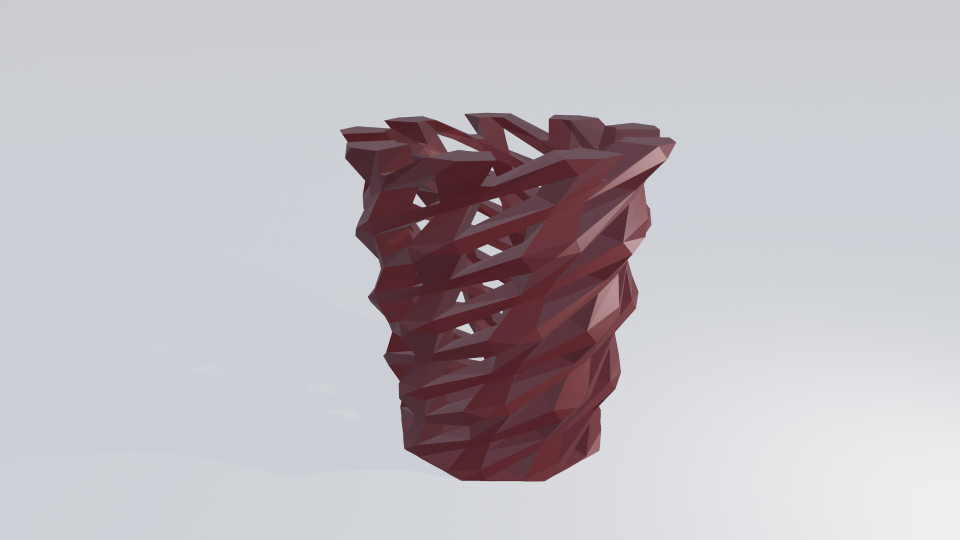
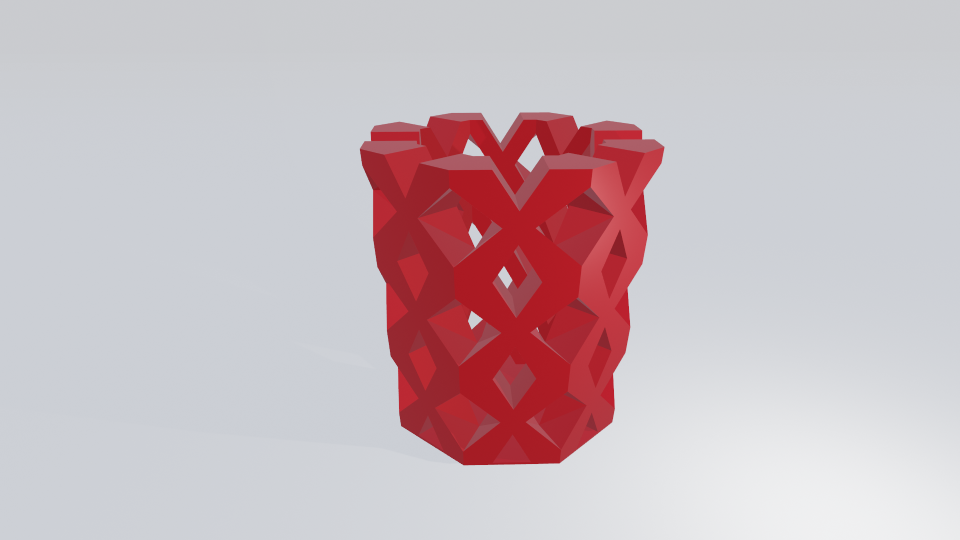
correct description

Changed region(s): [[0.3438, 0.2074, 0.7188, 0.9185]]

diff --git a/configs/vase3.py b/configs/vase3.py
@@ -7,11 +7,11 @@ from src.mesh_utils import snap_transform_to_layers, to_cylindrical_coords, \
 from src.shape_circular import generate_cylindrical_shape
 
 config = CircularShapeConfig()
-config.radius = 38
-config.height = 170
-config.thickness = 11
-config.base_cell_height = 14
-config.base_cell_width = 9
+config.radius = 35
+config.height = 140
+config.thickness = 3
+config.base_cell_height = 28
+config.base_cell_width = 28
 config.frame_len_bottom = 3
 config.bottom = True
 config.cell_fullness_function = lambda angle, h_fraction: 1
@@ -21,15 +21,9 @@ shape = generate_cylindrical_shape(config)
 
 def warp_vase_transform(x, y, z):
     angle, distance, z = to_cylindrical_coords(x, y, z)
-    phase = (7 + math.sin(angle * 3)) / 7
-    scale = 1 + z / config.height * 0.4 + phase / 3
-    new_z = z * phase
-    angle = angle + new_z / config.height * 1.5 + phase / 2
-
-    center_distance_deviation = distance - config.radius
-    scale = scale * pow(abs(center_distance_deviation) / config.thickness * 2, 0.4)
-
-    return from_cylindrical_coords(angle, distance * scale, new_z)
+    scale = 1 + z / config.height * 0.4
+    angle = angle + z / config.height * 3.7
+    return from_cylindrical_coords(angle, distance * scale, z)
 
 
 transform = warp_vase_transform
@@ -37,3 +31,4 @@ transform = snap_transform_to_layers(config, transform)
 shape = apply_transform(shape, transform)
 shape = round_mesh_points(shape, 3)
 save_stl(shape, os.path.splitext(os.path.basename(__file__))[0])
+

diff --git a/configs/vase1.py b/configs/vase1.py
@@ -1,4 +1,3 @@
-import math
 import os
 
 from src.config import CircularShapeConfig
@@ -7,26 +6,23 @@ from src.mesh_utils import snap_transform_to_layers, to_cylindrical_coords, \
 from src.shape_circular import generate_cylindrical_shape
 
 config = CircularShapeConfig()
-config.radius = 60
-config.height = 193
+config.radius = 45
+config.height = 137
 config.thickness = 18
 config.base_cell_height = 50
-config.base_cell_width = 40
-config.frame_len_bottom = 3
+config.base_cell_width = 34
+config.frame_len_bottom = 2
 config.bottom = True
-config.cell_fullness_function = lambda angle, h_fraction: 0.1 if h_fraction == 1 else 0
-
 shape = generate_cylindrical_shape(config)
 
 
-def warp_vase_transform(x, y, z):
+def warp_glass_transform(x, y, z):
     angle, distance, z = to_cylindrical_coords(x, y, z)
-    scale = 1 + z / config.height * 0.4
-    angle = angle + z / config.height * 3.7
+    scale = 1 + z/config.height * 0.2
     return from_cylindrical_coords(angle, distance * scale, z)
 
 
-transform = warp_vase_transform
+transform = warp_glass_transform
 transform = snap_transform_to_layers(config, transform)
 shape = apply_transform(shape, transform)
 shape = round_mesh_points(shape, 3)

diff --git a/configs/vase2.py b/configs/vase2.py
@@ -7,14 +7,14 @@ from src.mesh_utils import snap_transform_to_layers, to_cylindrical_coords, \
 from src.shape_circular import generate_cylindrical_shape
 
 config = CircularShapeConfig()
-config.radius = 35
-config.height = 140
-config.thickness = 3
-config.base_cell_height = 28
-config.base_cell_width = 28
+config.radius = 60
+config.height = 193
+config.thickness = 18
+config.base_cell_height = 50
+config.base_cell_width = 40
 config.frame_len_bottom = 3
 config.bottom = True
-config.cell_fullness_function = lambda angle, h_fraction: 1
+config.cell_fullness_function = lambda angle, h_fraction: 0.1 if h_fraction == 1 else 0
 
 shape = generate_cylindrical_shape(config)
 
@@ -31,4 +31,3 @@ transform = snap_transform_to_layers(config, transform)
 shape = apply_transform(shape, transform)
 shape = round_mesh_points(shape, 3)
 save_stl(shape, os.path.splitext(os.path.basename(__file__))[0])
-

diff --git a/readme.md b/readme.md
@@ -1,4 +1,4 @@
-Experiments with generating models for 3D printing using Python with `numpy-stl`.
+Experiments with generating models for 3D printing using Python and `numpy-stl`.
 
 # basic idea
 
@@ -16,7 +16,6 @@ Each cell might have its own "fullness". Here fullness increases from the bottom
 ![Variable fullness](img/variable-fullness.png)
 
 Mathematical functions can be applied to the mesh points to stretch / scale / rotate parts of model.
-
 For example, here is a flat grid transformed into hyperbolic paraboloid.
 ![Hyperbolic paraboloid](img/hyperbolic_paraboloid.png)
 
@@ -36,25 +35,22 @@ You can change any parameters in the config to adjust model.
 Mosquito net that prints as a continuous roll up to several meters long
 ![Mosquito net roll](img/roll.png)
 
-Vase 0. This is a circular x-shapes pattern. Transform is added to move all 
+Vase 1. This is a circular x-shapes pattern. Transform is added to move all 
 points away from the main axis as height increases, so the vase expands towards the top.
-![Glass](img/vase0.png)
+![Vase 1](img/vase1.png)
 
-Vase 1. This is Vase 0 with an added transform that rotates all points as height increases.
-![Vase1](img/vase1.png)
+Vase 2. This is Vase 0 with an added transform that rotates all points as height increases.
+![Vase 2](img/vase2.png)
 
-Vase 2. This is Vase 1, but cells have 100% fullness.
-![Vase2](img/vase2.png)
-
-Vase 3 ----- remove ---------
-![Vase3](img/vase3.png)
+Vase 3. This is Vase 1, but cells have 100% fullness.
+![Vase 3](img/vase3.png)
 
 Vase 4. This is vase 2, but with higher density of x-shapes and added transform to stretch 
 the rim in a wave-like pattern.
-![Vase4](img/vase4.png)
+![Vase 4](img/vase4.png)
 
 Vase 5. Surface points moved away from the axis by the sin of height + angle.
-![Vase5](img/vase5.png)
+![Vase 5](img/vase5.png)
 
 Glass with groove. Groove is formed by several x-shape layers with 100% fullness.
 ![Glass with groove](img/glass_with_groove.png)
